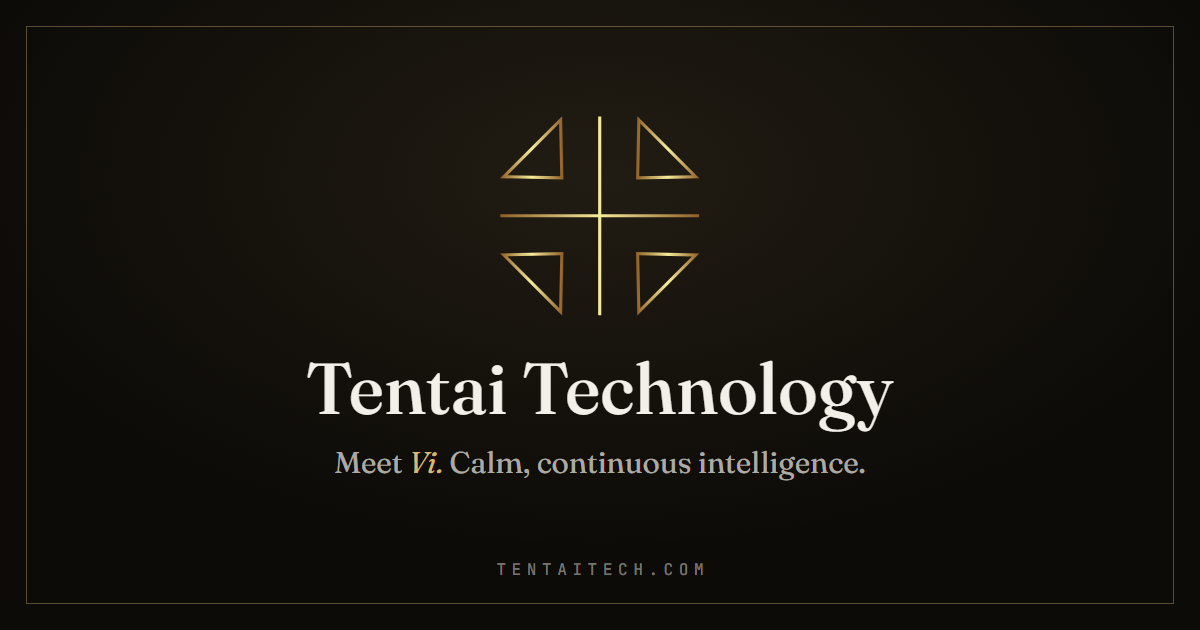
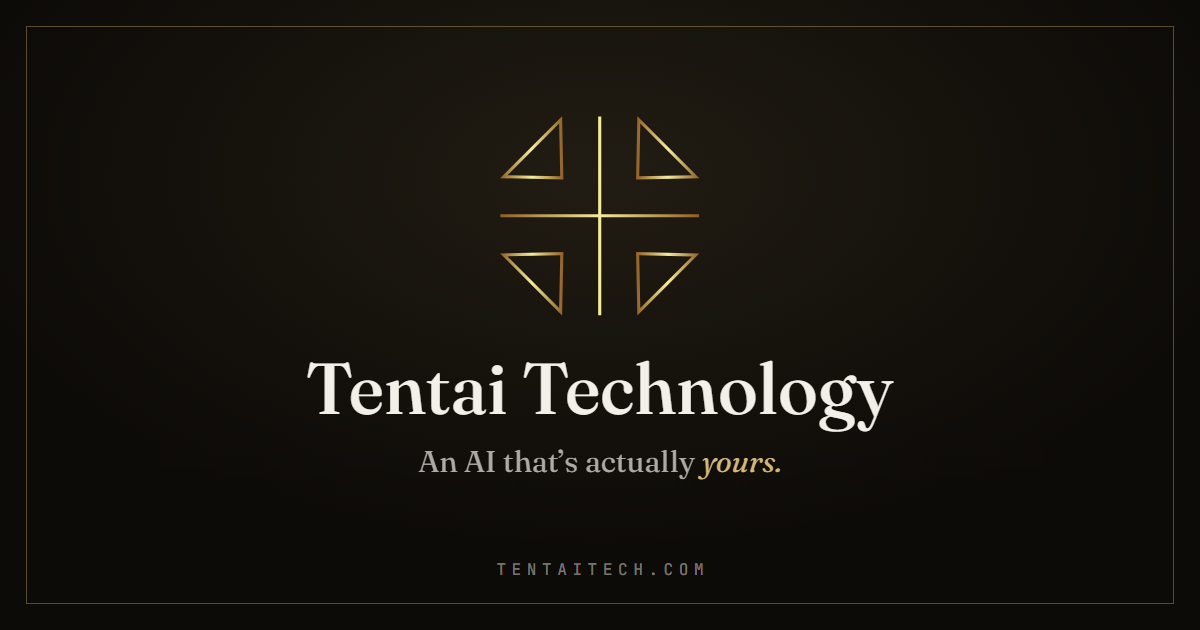
Site stops selling Vi: customers make their own AI
Owner: Vi is no longer the product; users make their own AI. The site
still sold her as "Tentai's flagship" with a "Get Vi" button.

- "Get Vi" (nav + footers on index, about, hardware) is now
  "Make your AI" -> /beta, since sign-up is approval-only. The /beta
  footer gets Hardware & IT in that slot instead of linking to itself.
- Home hero: "An AI that's actually yours." Vi's portrait stays, and
  the copy says she is Tentai's own; the main button goes to /beta and
  "Or talk to Vi" still opens the front-desk chat (which is her).
- About: rewritten as a technology company (own AI, client software,
  hardware); Vi introduced as Tentai's own AI; a third Hardware & IT
  card next to Product and Services.
- /beta: copy says "an AI companion of your own" instead of
  "Vi is an AI companion"; titles say "Tentai beta".
- Share image (og-image.png) now reads "An AI that's actually yours."
  instead of "Meet Vi."; meta URLs carry ?v=20261027 so link previews
  refetch it.

Changed region(s): [[0.2775, 0.6937, 0.74, 0.754]]

diff --git a/docs/about.html b/docs/about.html
@@ -4,8 +4,8 @@
     <meta charset="UTF-8">
     <meta name="viewport" content="width=device-width, initial-scale=1.0, viewport-fit=cover">
     <title>About — Tentai Technology · AI, Software &amp; Hardware</title>
-    <meta name="description" content="Tentai Technology is an independent AI and software studio founded in 2023. We build our own AI product — Vi, a continuous assistant with real memory — and custom websites, booking automation, and AI integrations for clients.">
-    <meta name="keywords" content="Tentai Technology, about, AI studio, software studio, Vi, Shykem Middleton, AI products, custom software, booking automation">
+    <meta name="description" content="Tentai Technology is an independent technology company founded in 2023. We build an AI people make their own — they name it, decide who it is, and it remembers them — plus custom websites, booking automation, AI integrations, and hardware for clients.">
+    <meta name="keywords" content="Tentai Technology, about, Tentai, personal AI, AI companion, Vi, Shykem Middleton, custom software, booking automation, hardware">
     <link rel="canonical" href="https://tentaitech.com/about.html">
 
     <!-- IP / Copyright / AI training opt-out -->
@@ -18,7 +18,7 @@
 
     <!-- Open Graph -->
     <meta property="og:title" content="About Tentai Technology">
-    <meta property="og:description" content="An independent AI and software studio founded in 2023 — building Vi and custom software for clients.">
+    <meta property="og:description" content="An independent technology company founded in 2023 — an AI you make your own, custom software, and hardware for clients.">
     <meta property="og:type" content="website">
     <meta property="og:url" content="https://tentaitech.com/about.html">
 
@@ -41,11 +41,11 @@
         "name": "Tentai Technology",
         "legalName": "Tentai Technology LC",
         "url": "https://tentaitech.com/",
-        "description": "Independent AI and software studio founded in 2023. Builds Vi (a continuous AI assistant with real memory), plus custom websites, booking automation, and AI integrations for clients.",
+        "description": "Independent technology company founded in 2023. Builds a personal AI that each customer names and shapes themselves, plus custom websites, booking automation, AI integrations, and hardware procurement for clients.",
         "foundingDate": "2023",
         "founder": { "@type": "Person", "name": "Shykem Middleton" },
         "email": "shykem.middleton@tentaitech.com",
-        "knowsAbout": ["Artificial Intelligence", "Software Development", "Web Design", "Booking Automation", "AI Integration"],
+        "knowsAbout": ["Artificial Intelligence", "Software Development", "Web Design", "Booking Automation", "AI Integration", "IT Hardware Procurement"],
         "sameAs": [
             "https://github.com/TheLinQuei",
             "https://chat.tentaitech.com"
@@ -91,7 +91,7 @@
                      desk is still reachable from the floating trigger. -->
                 <a href="/#services">Services</a>
                 <a href="/hardware">Hardware</a>
-                <a href="https://chat.tentaitech.com">Get Vi</a>
+                <a href="/beta">Make your AI</a>
                 <a href="/about">About</a>
             </div>
         </div>
@@ -103,7 +103,7 @@
             <div class="section-header" style="margin-bottom: 0;">
                 <span class="section-badge">Company &middot; Established 2023</span>
                 <h1 class="section-title" style="margin-top: 1.25rem;">About Tentai Technology</h1>
-                <p class="section-subtitle">An independent AI &amp; software studio &mdash; building calm, continuous tools, and the products behind them.</p>
+                <p class="section-subtitle">An independent technology company &mdash; an AI you make your own, software you keep, and the hardware to run it.</p>
             </div>
         </div>
     </header>
@@ -119,7 +119,9 @@
                  nothing overlays it.
                  aria-hidden + empty alt: she is atmosphere on this page, and the
                  adjacent paragraph already says who she is. Announcing her twice
-                 to a screen reader is noise, not access. -->
+                 to a screen reader is noise, not access.
+                 2026-10-27: she is no longer the product (customers make their
+                 own AI), so the paragraph now introduces her as Tentai's own. -->
             <div class="about-content about-content--with-portrait">
                 <figure class="about-portrait" aria-hidden="true">
                     <picture>
@@ -134,16 +136,22 @@
                 </figure>
                 <div class="about-text">
                     <p class="about-intro">
-                        <strong>Tentai Technology</strong> is an independent AI and software studio, founded in 2023 and based in the United States.
-                        We design and operate our own AI products &mdash; and bring the same engineering to businesses that need custom software.
+                        <strong>Tentai Technology</strong> is an independent technology company, founded in 2023 and based in the United States.
+                        We build an AI people make their own, custom software for businesses, and source the hardware to run it.
                     </p>
                     <p>
-                        Our flagship is <strong>Vi</strong>: a continuous AI assistant with real, persistent memory &mdash; the same identity across
-                        web and mobile. She's our own product, built and maintained in-house rather than assembled from off-the-shelf parts.
+                        Our product is an AI that's actually yours. You give it a name and decide who it is, and it remembers you from one
+                        conversation to the next. The character you write is saved to your account, so our updates don't rewrite it.
+                        It's in a closed beta now.
+                    </p>
+                    <p>
+                        <strong>Vi</strong>, pictured, is ours: the first AI built on this system, made and maintained in-house rather than
+                        assembled from off-the-shelf parts. She's also who answers when you chat with us on this site.
                     </p>
                     <p>
                         For clients, we build the same way we build for ourselves: custom websites, booking and scheduling automation, and AI
-                        integrations &mdash; shipped with full code ownership, no tracking, and no platform lock-in.
+                        integrations &mdash; shipped with full code ownership, no tracking, and no platform lock-in. When the job needs
+                        machines, we quote, source and ship those too.
                     </p>
                     <p class="about-future">
                         Every Tentai product is built without tracking, ads, or harvested data. Your conversations, your schedules, your state
@@ -160,32 +168,44 @@
             <div class="section-header">
                 <span class="section-badge">What we build</span>
                 <h2 class="section-title">Products &amp; Services</h2>
-                <p class="section-subtitle">Our own AI products, and the same discipline applied to client work.</p>
+                <p class="section-subtitle">An AI you make your own, software for your business, and the hardware behind both.</p>
             </div>
 
             <div class="projects-grid">
                 <div class="project-card">
                     <div class="service-index">Product</div>
-                    <h3>Vi &mdash; Continuous AI</h3>
-                    <p>Our flagship. A calm AI assistant with real memory that stays the same self across web and mobile. Live now.</p>
+                    <h3>Your own AI</h3>
+                    <p>Pick a name, decide who it is, and it remembers you. The character you give it stays yours. Closed beta, free while it runs.</p>
                     <div class="project-tags">
-                        <span>Live Product</span>
+                        <span>Closed Beta</span>
                         <span>Persistent Memory</span>
-                        <span>Cross-Surface</span>
+                        <span>Yours to Shape</span>
                     </div>
-                    <a href="https://chat.tentaitech.com" class="btn btn-small">Talk to Vi &rarr;</a>
+                    <a href="/beta" class="btn btn-small">Make your AI &rarr;</a>
                 </div>
 
                 <div class="project-card">
                     <div class="service-index">Services</div>
                     <h3>Custom Web, Automation &amp; AI</h3>
-                    <p>Websites, booking automation, and AI integrations for your business &mdash; the same technology behind Vi, tuned to your needs, with full code ownership.</p>
+                    <p>Websites, booking automation, and AI integrations for your business &mdash; the same technology our own AI runs on, tuned to your needs, with full code ownership.</p>
                     <div class="project-tags">
                         <span>Web Design</span>
                         <span>Booking Automation</span>
                         <span>AI Integration</span>
                     </div>
                     <a href="/#services" class="btn btn-small">See services &rarr;</a>
+                </div>
+
+                <div class="project-card">
+                    <div class="service-index">Hardware</div>
+                    <h3>Hardware &amp; IT</h3>
+                    <p>Laptops, AI workstations, servers and networking, quoted, sourced and shipped to you in the US or worldwide.</p>
+                    <div class="project-tags">
+                        <span>Business Hardware</span>
+                        <span>AI Workstations</span>
+                        <span>US &amp; Worldwide</span>
+                    </div>
+                    <a href="/hardware" class="btn btn-small">See hardware &rarr;</a>
                 </div>
             </div>
         </div>
@@ -205,7 +225,7 @@
                                 Tentai is a solo build. Every line of code, every persona decision, and every brand mark comes from one person with one vision: tools that feel <em>continuous</em> &mdash; that remember you, that don't forget who you are between sessions, that respect your attention instead of farming it.
                             </p>
                             <p>
-                                Vi began as an experiment in giving an AI real memory and a real identity instead of a stateless answer machine. Client work came next &mdash; real businesses needed exactly what Tentai was already building for itself.
+                                Vi began as an experiment in giving an AI real memory and a real identity instead of a stateless answer machine. Once it worked, the next step was obvious: let people make their own. Client work and hardware came alongside &mdash; real businesses needed the same engineering, and the machines to run it.
                             </p>
                             <p class="founder-contact">
                                 <a href="mailto:shykem.middleton@tentaitech.com">shykem.middleton@tentaitech.com</a> &middot; <a href="https://github.com/TheLinQuei" target="_blank" rel="noopener">GitHub</a>
@@ -215,7 +235,7 @@
                 </div>
 
                 <div class="about-cta" style="margin-top: 3rem;">
-                    <a href="https://chat.tentaitech.com" class="btn btn-primary">Get Vi</a>
+                    <a href="/beta" class="btn btn-primary">Make your AI</a>
                     <a href="/" class="btn btn-secondary">Back to home</a>
                     <p style="margin-top: 0.5rem;">
                         Tentai Technology LC &middot; Founded 2023 &middot; United States &middot;
@@ -256,7 +276,7 @@
                         <button type="button" data-open-frontdesk>Chat with Vi</button>
                         <a href="/#services">Services</a>
                         <a href="/hardware">Hardware &amp; IT</a>
-                        <a href="https://chat.tentaitech.com">Get Vi</a>
+                        <a href="/beta">Make your AI</a>
                     </div>
 
                     <div class="footer-column">

diff --git a/docs/index.html b/docs/index.html
@@ -3,9 +3,9 @@
 <head>
     <meta charset="UTF-8">
     <meta name="viewport" content="width=device-width, initial-scale=1.0, viewport-fit=cover">
-    <title>Tentai Technology — Vi + custom web, automation &amp; AI</title>
-    <meta name="description" content="Tentai Technology builds Vi — a calm, continuous AI with real memory across web and mobile — plus custom websites, booking automation, and AI integrations for your business.">
-    <meta name="keywords" content="Tentai Technology, Vi, AI assistant, website design, booking automation, AI integration, custom software">
+    <title>Tentai Technology — your own AI, plus custom web, automation &amp; hardware</title>
+    <meta name="description" content="Tentai Technology builds an AI that's actually yours: you name it, you decide who it is, and it remembers you. Plus custom websites, booking automation, AI integrations, and hardware for your business.">
+    <meta name="keywords" content="Tentai Technology, Tentai, personal AI, AI companion, AI assistant, website design, booking automation, AI integration, custom software, hardware">
 
     <!-- IP / Copyright / AI training opt-out -->
     <meta name="author" content="Shykem (Tentai Technology)">
@@ -20,19 +20,19 @@
     <meta http-equiv="Cache-Control" content="max-age=300, must-revalidate">
         <!-- Open Graph -->
     <meta property="og:title" content="Tentai Technology">
-    <meta property="og:description" content="Tentai Technology builds Vi — a continuous AI with real memory — plus custom websites, booking automation, and AI integrations for your business.">
+    <meta property="og:description" content="An AI that's actually yours: you name it, you decide who it is, and it remembers you. Plus custom websites, booking automation, AI integrations, and hardware for your business.">
     <meta property="og:type" content="website">
     <meta property="og:site_name" content="Tentai Technology">
     <meta property="og:url" content="https://tentaitech.com/">
-    <meta property="og:image" content="https://tentaitech.com/assets/og-image.png">
+    <meta property="og:image" content="https://tentaitech.com/assets/og-image.png?v=20261027">
     <meta property="og:image:width" content="1200">
     <meta property="og:image:height" content="630">
-    <meta property="og:image:alt" content="Tentai Technology — Meet Vi. Calm, continuous intelligence.">
+    <meta property="og:image:alt" content="Tentai Technology — An AI that's actually yours.">
     <!-- Twitter / X -->
     <meta name="twitter:card" content="summary_large_image">
     <meta name="twitter:title" content="Tentai Technology">
-    <meta name="twitter:description" content="Tentai Technology builds Vi — a continuous AI with real memory — plus custom websites, booking automation, and AI integrations for your business.">
-    <meta name="twitter:image" content="https://tentaitech.com/assets/og-image.png">
+    <meta name="twitter:description" content="An AI that's actually yours: you name it, you decide who it is, and it remembers you. Plus custom websites, booking automation, AI integrations, and hardware for your business.">
+    <meta name="twitter:image" content="https://tentaitech.com/assets/og-image.png?v=20261027">
 
     <!-- Site name + organization for search results -->
     <script type="application/ld+json">
@@ -69,6 +69,8 @@
     <!-- Hero Section -->
     <div class="hero">
         <!-- Vi's portrait — the hero's atmosphere (owner pick C, presence lab 2026-07-30).
+             Kept 2026-10-27 when the hero stopped selling her (owner: customers
+             make their own AI now); the copy below says she is Tentai's own.
              AVIF rungs for modern browsers, JPEG fallback; sized to the viewport so
              4K never upscales and phones never over-download. -->
         <div id="heroPortrait" aria-hidden="true">
@@ -130,7 +132,10 @@
                          tab for it was a third door to the same room. -->
                     <a href="#services">Services</a>
                     <a href="/hardware">Hardware</a>
-                    <a href="https://chat.tentaitech.com">Get Vi</a>
+                    <!-- Was "Get Vi" -> chat.tentaitech.com until 2026-10-27: Vi is
+                         Tentai's own AI, and customers make their own. Points at
+                         /beta because sign-up is approval-only. -->
+                    <a href="/beta">Make your AI</a>
                     <a href="/about">About</a>
                 </div>
             </div>
@@ -143,23 +148,18 @@
             </div>
 
             <h1 class="hero-title">
-                <span class="title-main">Meet <em>Vi.</em></span>
-                <span class="title-sub">Calm, continuous intelligence.</span>
+                <span class="title-main">An AI that's actually <em>yours.</em></span>
+                <span class="title-sub">You name it. You decide who it is. It remembers you.</span>
             </h1>
 
             <p class="hero-description">
-                <strong>Vi</strong> is Tentai's flagship — a continuous intelligence with real memory.
-                The same self across web and mobile.
+                The character you give it is saved to your account, so our updates don't rewrite it.
+                <strong>Vi</strong>, pictured, is ours. Yours is whoever you make it.
             </p>
 
             <div class="hero-cta">
-                <button type="button" data-open-frontdesk class="btn btn-primary">
-                    <svg width="20" height="20" viewBox="0 0 24 24" fill="none" stroke="currentColor" stroke-width="2">
-                        <path d="M21 15v4a2 2 0 0 1-2 2H5a2 2 0 0 1-2-2v-4M7 10l5 5 5-5M12 15V3"/>
-                    </svg>
-                    Talk to Vi
-                </button>
-                <a href="#services" class="hero-textlink">Work with Tentai <span aria-hidden="true">&rarr;</span></a>
+                <a href="/beta" class="btn btn-primary">Make your AI</a>
+                <button type="button" data-open-frontdesk class="hero-textlink">Or talk to Vi <span aria-hidden="true">&rarr;</span></button>
             </div>
 
             <div class="hero-stats">
@@ -199,7 +199,7 @@
             <div class="section-header">
                 <span class="section-badge">Work with Tentai</span>
                 <h2 class="section-title">Services</h2>
-                <p class="section-subtitle">Vi is what we build for ourselves. Here's what we build for you.</p>
+                <p class="section-subtitle">Beyond your own AI, here's what we build for your business.</p>
             </div>
 
             <div class="projects-grid">
@@ -230,7 +230,7 @@
                 <div class="project-card">
                     <div class="service-index">03</div>
                     <h3>AI Integration</h3>
-                    <p>Add a real assistant to your product or workflow — the same technology behind Vi, tuned to your business. Answer customers, draft content, and handle the busywork.</p>
+                    <p>Add a real assistant to your product or workflow — the same technology our own AI runs on, tuned to your business. Answer customers, draft content, and handle the busywork.</p>
                     <div class="project-tags">
                         <span>Custom AI</span>
                         <span>Chat &amp; Automation</span>
@@ -327,13 +327,13 @@
                 <div class="feature-card">
                     <div class="feature-icon"><svg viewBox="0 0 24 24" fill="none" stroke="currentColor" stroke-width="1.5" stroke-linecap="round" stroke-linejoin="round"><path d="M12 2l2.4 7.6L22 12l-7.6 2.4L12 22l-2.4-7.6L2 12l7.6-2.4z"/></svg></div>
                     <h3>One Identity</h3>
-                    <p>Vi is the same self everywhere — web and mobile. Same memory, same voice, same continuity. Not a fleet of clones, one presence.</p>
+                    <p>Your AI is the same self everywhere — web and mobile. Same memory, same voice, same continuity. Not a fleet of clones, one presence.</p>
                 </div>
 
                 <div class="feature-card">
                     <div class="feature-icon"><svg viewBox="0 0 24 24" fill="none" stroke="currentColor" stroke-width="1.5" stroke-linecap="round" stroke-linejoin="round"><path d="M22 19a2 2 0 0 1-2 2H4a2 2 0 0 1-2-2V5a2 2 0 0 1 2-2h5l2 3h9a2 2 0 0 1 2 2z"/></svg></div>
                     <h3>Open & Auditable</h3>
-                    <p>Vi is open to inspection on GitHub. Client projects ship with full code ownership — no black boxes, no lock-in.</p>
+                    <p>The engine is open to inspection on GitHub. Client projects ship with full code ownership — no black boxes, no lock-in.</p>
                 </div>
 
                 <div class="feature-card">
@@ -388,7 +388,7 @@
                         <button type="button" data-open-frontdesk>Chat with Vi</button>
                         <a href="#services">Services</a>
                         <a href="/hardware">Hardware &amp; IT</a>
-                        <a href="https://chat.tentaitech.com">Get Vi</a>
+                        <a href="/beta">Make your AI</a>
                     </div>
 
                     <div class="footer-column">
@@ -448,7 +448,7 @@
                     <svg width="32" height="32" viewBox="0 0 24 24" fill="none" stroke="currentColor" stroke-width="2">
                         <polyline points="20 6 9 17 4 12"/>
                     </svg>
-                    <p>Vi will appear on your home screen!</p>
+                    <p>It will appear on your home screen!</p>
                 </div>
             </div>
         </div>

diff --git a/docs/beta.html b/docs/beta.html
@@ -3,8 +3,8 @@
 <head>
     <meta charset="UTF-8">
     <meta name="viewport" content="width=device-width, initial-scale=1.0, viewport-fit=cover">
-    <title>Join the Vi beta &middot; Tentai Technology</title>
-    <meta name="description" content="Vi is an AI companion that remembers you and keeps the character you give it. A small, approval-only beta: free while it runs, with a direct line to the founder. Adults only.">
+    <title>Make your own AI: join the beta &middot; Tentai Technology</title>
+    <meta name="description" content="Make an AI companion of your own: it remembers you and keeps the character you give it. A small, approval-only beta: free while it runs, with a direct line to the founder. Adults only.">
     <link rel="canonical" href="https://tentaitech.com/beta">
 
     <!-- IP / Copyright / AI training opt-out (same as every page on the site) -->
@@ -16,18 +16,18 @@
     <meta name="tdm-policy" content="https://tentaitech.com/license.html">
 
     <!-- Open Graph: reuses the site card until a beta-specific one exists -->
-    <meta property="og:title" content="Your AI stays yours. Join the Vi beta.">
+    <meta property="og:title" content="Your AI stays yours. Join the Tentai beta.">
     <meta property="og:description" content="An AI companion that remembers you. The character you write is saved to your account, and our updates don't rewrite it. Limited spots, approval only.">
     <meta property="og:type" content="website">
     <meta property="og:site_name" content="Tentai Technology">
     <meta property="og:url" content="https://tentaitech.com/beta">
-    <meta property="og:image" content="https://tentaitech.com/assets/og-image.png">
+    <meta property="og:image" content="https://tentaitech.com/assets/og-image.png?v=20261027">
     <meta property="og:image:width" content="1200">
     <meta property="og:image:height" content="630">
     <meta name="twitter:card" content="summary_large_image">
-    <meta name="twitter:title" content="Your AI stays yours. Join the Vi beta.">
+    <meta name="twitter:title" content="Your AI stays yours. Join the Tentai beta.">
     <meta name="twitter:description" content="An AI companion that remembers you. The character you write is saved to your account, and our updates don't rewrite it. Limited spots, approval only.">
-    <meta name="twitter:image" content="https://tentaitech.com/assets/og-image.png">
+    <meta name="twitter:image" content="https://tentaitech.com/assets/og-image.png?v=20261027">
 
     <!-- Theme -->
     <meta name="theme-color" content="#B8963F">
@@ -129,7 +129,7 @@
             </h1>
 
             <p class="hero-description">
-                <strong>Vi</strong> is an AI companion that remembers you and keeps the character you give it.
+                Make <strong>an AI companion of your own</strong>: it remembers you and keeps the character you give it.
                 We are letting a small group in early: people who already talk to AI and know what is missing.
             </p>
 
@@ -163,7 +163,7 @@
             <div class="section-header">
                 <span class="section-badge">What it is</span>
                 <h2 class="section-title">An AI companion that remembers you, in the character you give it.</h2>
-                <p class="section-subtitle">Vi is built by Tentai. As a tester you get your own, running on the same system: you choose its name and who it is.</p>
+                <p class="section-subtitle">As a tester you get your own, running on the same system as Vi, Tentai's own AI: you choose its name and who it is.</p>
             </div>
 
             <div class="beta-pillars">
@@ -315,7 +315,7 @@
             </div>
 
             <p class="beta-fineprint">
-                <strong>Vi is an AI, not a person.</strong> It can get things wrong, and it is not a substitute for a doctor, therapist, or emergency service.
+                <strong>Your companion is an AI, not a person.</strong> It can get things wrong, and it is not a substitute for a doctor, therapist, or emergency service.
                 If you are in crisis, call or text 988 in the US, or contact your local emergency number.
             </p>
         </div>
@@ -350,7 +350,7 @@
                         <h4>Explore</h4>
                         <a href="/">Home</a>
                         <a href="/#services">Services</a>
-                        <a href="https://chat.tentaitech.com">Get Vi</a>
+                        <a href="/hardware">Hardware &amp; IT</a>
                     </div>
 
                     <div class="footer-column">

diff --git a/docs/hardware.html b/docs/hardware.html
@@ -93,7 +93,7 @@
             <div class="nav-links">
                 <a href="/#services">Services</a>
                 <a href="/hardware">Hardware</a>
-                <a href="https://chat.tentaitech.com">Get Vi</a>
+                <a href="/beta">Make your AI</a>
                 <a href="/about">About</a>
             </div>
         </div>
@@ -281,7 +281,7 @@
                         <button type="button" data-open-frontdesk>Chat with Vi</button>
                         <a href="/#services">Services</a>
                         <a href="/hardware">Hardware &amp; IT</a>
-                        <a href="https://chat.tentaitech.com">Get Vi</a>
+                        <a href="/beta">Make your AI</a>
                     </div>
 
                     <div class="footer-column">
